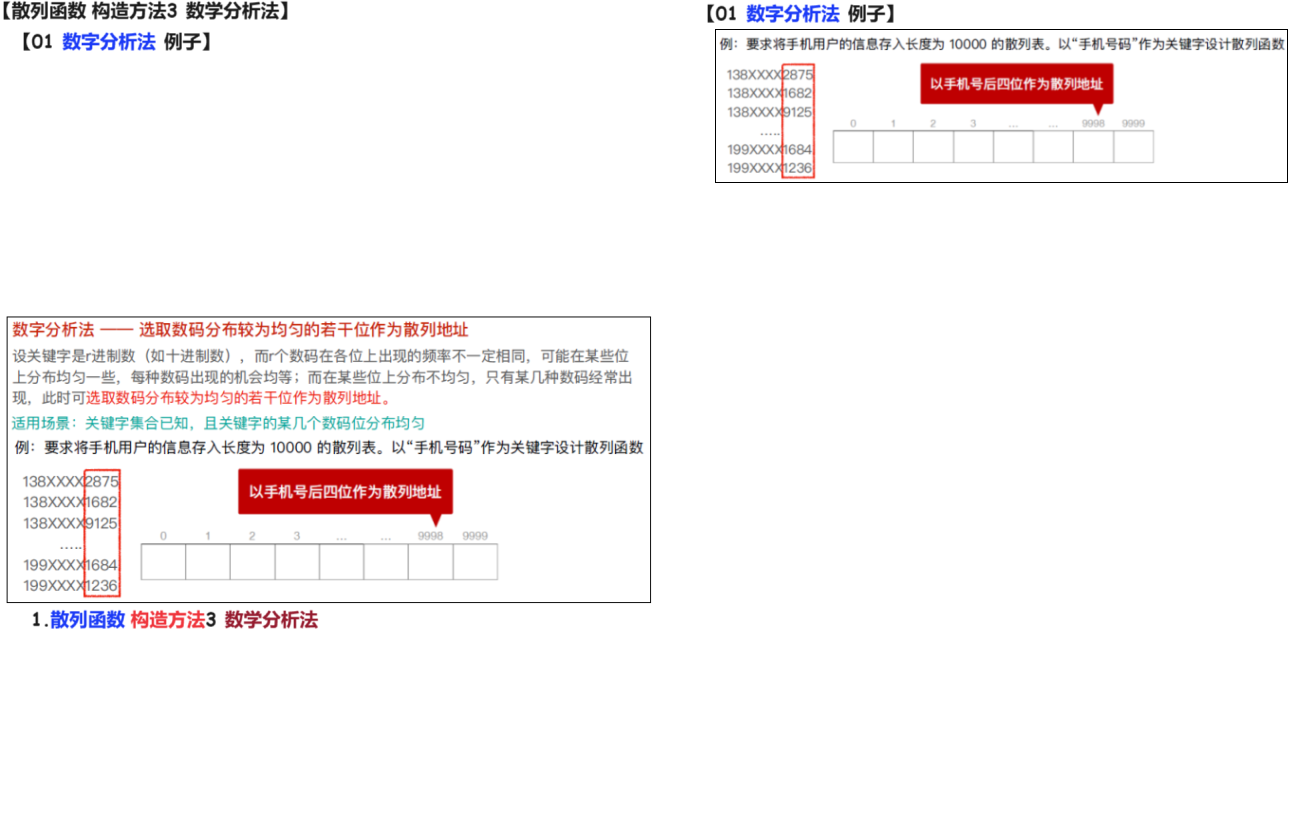
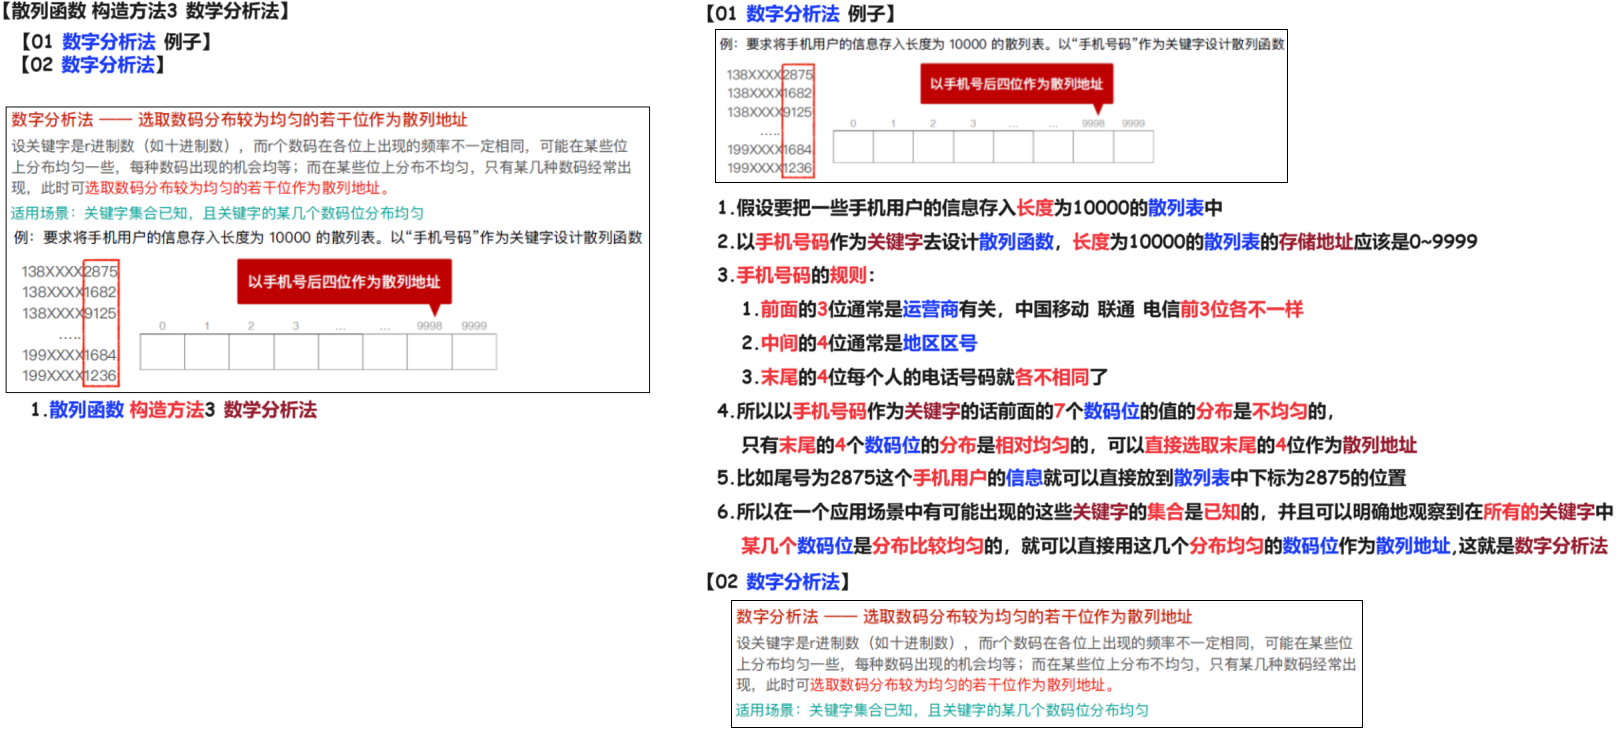
240327

Changed region(s): [[0.0, 0.0, 1.0, 1.0], [0.0, 0.0, 0.2452, 0.1201], [0.2759, 0.6903, 0.3678, 0.7203]]

diff --git a/01 初试/02 DS/02 知识点/01 王道基础/07 第七章 查找/05 散列表/02 散列函数 构造 240327/02 Doc.md b/01 初试/02 DS/02 知识点/01 王道基础/07 第七章 查找/05 散列表/02 散列函数 构造 240327/02 Doc.md
@@ -21,3 +21,7 @@
 <img src="https://cvp.oss-cn-shanghai.aliyuncs.com/picgo/202403271047086.png" alt="image-20240327104702970" style="zoom:50%;" />
 
 # 05 散列函数 构造方法3 数学分析法
+
+<img src="https://cvp.oss-cn-shanghai.aliyuncs.com/picgo/202403271122005.png" alt="image-20240327112211887" style="zoom:50%;" />
+
+# 06 散列函数 构造方法4 平方取中法
